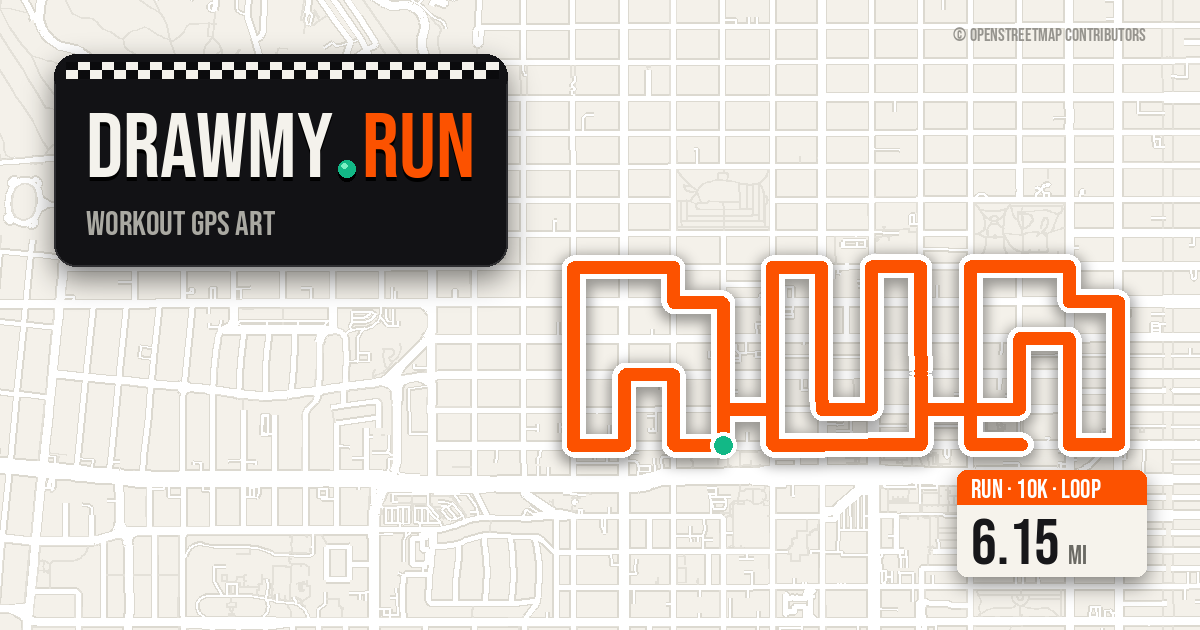
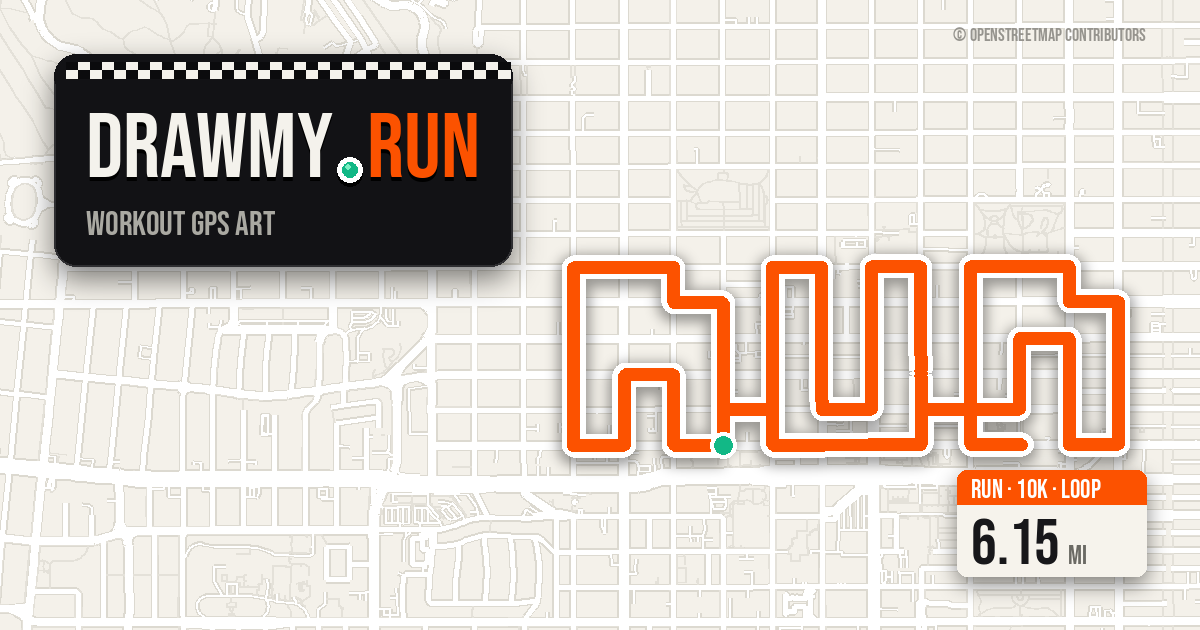
The dot in drawmy.run is the start marker everywhere: green in a white ring, set tight like the dot in an address
The period is now the map's start marker, a small green dot in a white
ring, standing on the baseline with no more room around it than the dot
in an address, so the name reads as the URL it is. It is the same dot in
the header, on the bib's sponsor line (with a faint dark rim so the ring
shows on paper), in the exported GIF's caption band and on the share card.
The card's description says a 6 mile run now.

Claude-Session: https://claude.ai/code/session_01Dmg3qgF2RMqA8VqrgFUq5h

Changed region(s): [[0.2775, 0.0905, 0.4317, 0.4222]]

diff --git a/web/src/lib/gif.ts b/web/src/lib/gif.ts
@@ -23,7 +23,7 @@ export interface GifJob {
 const FRAME_MS = 50;     // 20 frames a second
 const MAX_FRAMES = 150;
 const BAND = 150;   // caption band height in px
-const SITE = "drawmy.run";
+const SITE = { left: "DRAWMY", right: "RUN" };   // with the start dot as the period between
 
 /** Resolves when the map has drawn everything it was asked to, or after `ms`. */
 function idle(m: maplibregl.Map, ms: number): Promise<void> {
@@ -47,6 +47,34 @@ function displayFont(): string {
   return fam ? `${fam}, "Arial Narrow", Impact, sans-serif` : `"Arial Narrow", Impact, sans-serif`;
 }
 
+/** The site's address with its right edge at `right`: DRAWMY, the green
+ *  start dot in its white ring as the period, RUN in orange. */
+function drawSite(ctx: CanvasRenderingContext2D, right: number, baseline: number, size: number, font: string) {
+  ctx.font = `${size}px ${font}`;
+  ctx.textAlign = "left";
+  const dot = size * 0.17;
+  const ring = size * 0.055;
+  const gapL = ring + size * 0.03;
+  const gapR = ring + size * 0.06;
+  const wl = ctx.measureText(SITE.left).width;
+  const wr = ctx.measureText(SITE.right).width;
+  let x = right - (wl + gapL + dot + gapR + wr);
+  ctx.fillStyle = "#6f6e68";
+  ctx.fillText(SITE.left, x, baseline);
+  x += wl + gapL;
+  ctx.beginPath();
+  ctx.arc(x + dot / 2, baseline - dot / 2, dot / 2 + ring, 0, Math.PI * 2);
+  ctx.fillStyle = "#fff";
+  ctx.fill();
+  ctx.beginPath();
+  ctx.arc(x + dot / 2, baseline - dot / 2, dot / 2, 0, Math.PI * 2);
+  ctx.fillStyle = "#12b886";
+  ctx.fill();
+  x += dot + gapR;
+  ctx.fillStyle = "#fc5200";
+  ctx.fillText(SITE.right, x, baseline);
+}
+
 /** A light band across the bottom with the word, the distance and the site. */
 function drawBand(ctx: CanvasRenderingContext2D, w: number, h: number, caption: { word: string; stats: string }, font: string) {
   const g = ctx.createLinearGradient(0, h - BAND - 60, 0, h);
@@ -64,10 +92,7 @@ function drawBand(ctx: CanvasRenderingContext2D, w: number, h: number, caption: 
   ctx.fillStyle = "#fc5200";
   ctx.font = `30px ${font}`;
   ctx.fillText(caption.stats, x + 2, h - 28);
-  ctx.textAlign = "right";
-  ctx.fillStyle = "#6f6e68";
-  ctx.font = `28px ${font}`;
-  ctx.fillText(SITE, w - 56, h - 28);
+  drawSite(ctx, w - 56, h - 28, 28, font);
   // a short orange rule under the word, like the field on the page
   ctx.fillStyle = "#fc5200";
   ctx.fillRect(x, h - 54, Math.min(w * 0.3, 220), 3);

diff --git a/web/src/app/globals.css b/web/src/app/globals.css
@@ -95,12 +95,12 @@ body {
 }
 .logo-period {
   display: inline-block;
-  width: 0.19em;
-  height: 0.19em;
-  margin: 0 0.08em 0 0.06em;
+  width: 0.17em;
+  height: 0.17em;
+  margin: 0 0.06em 0 0.03em;   /* as tight as the dot in an address; the ring takes 0.055em of each */
   border-radius: 50%;
   background: radial-gradient(circle at 38% 32%, #7cf0c4 0%, #12b886 55%, #0a8a63 100%);
-  box-shadow: inset 0 1px 0 rgba(255, 255, 255, 0.35);
+  box-shadow: 0 0 0 0.055em #fff;   /* the white ring of the start marker on the map */
   vertical-align: baseline;
 }
 .logo-draw,
@@ -1094,6 +1094,17 @@ details[open] > .disclose svg {
 }
 .bib-sponsor span {
   color: var(--orange);
+}
+/* The period in the sponsor's address: the start marker, green in a white ring. */
+.bib-dot {
+  display: inline-block;
+  width: 0.17em;
+  height: 0.17em;
+  margin: 0 0.06em 0 0.03em;
+  border-radius: 50%;
+  background: #12b886;
+  box-shadow: 0 0 0 0.055em #fff, 0 0 0 0.075em rgba(23, 23, 26, 0.18);
+  vertical-align: baseline;
 }
 /* Printed keys on the paper: the same 3px lip and the same fall of shadow
    whatever their colour, so they stand at one height. */

diff --git a/web/src/app/layout.tsx b/web/src/app/layout.tsx
@@ -27,8 +27,8 @@ export const metadata: Metadata = {
     // everything else shows its first frame, which is the finished card. The
     // still comes second for anything that wants one.
     images: [
-      { url: "/og.gif", width: 1200, height: 630, type: "image/gif", alt: "drawmy.run: the word RUN drawn on the streets of San Francisco by a 3.7 mile run" },
-      { url: "/og.png", width: 1200, height: 630, type: "image/png", alt: "drawmy.run: the word RUN drawn on the streets of San Francisco by a 3.7 mile run" },
+      { url: "/og.gif", width: 1200, height: 630, type: "image/gif", alt: "drawmy.run: the word RUN drawn on the streets of San Francisco by a 6 mile run" },
+      { url: "/og.png", width: 1200, height: 630, type: "image/png", alt: "drawmy.run: the word RUN drawn on the streets of San Francisco by a 6 mile run" },
     ],
   },
   twitter: {

diff --git a/web/src/components/RaceBib.tsx b/web/src/components/RaceBib.tsx
@@ -175,7 +175,7 @@ function Paper({ o, units, actions, live }: { o: PlanOption; units: Units; actio
           </>
         )}
         <span className="bib-sponsor font-display" aria-hidden="true">
-          drawmy<span>.run</span>
+          drawmy<i className="bib-dot" /><span>run</span>
         </span>
       </div>
     </>
